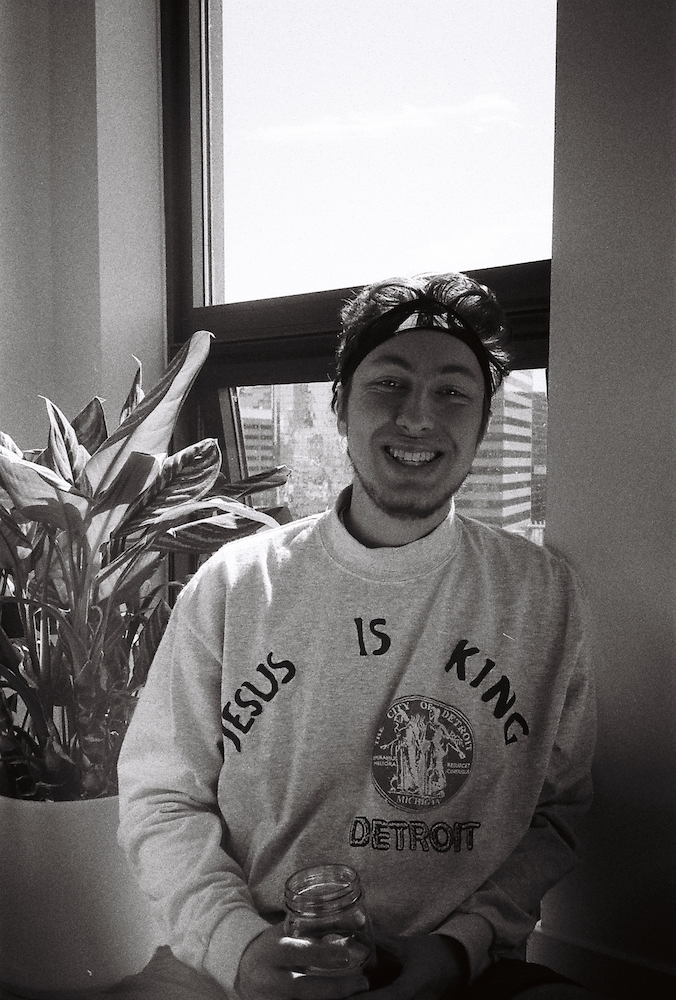
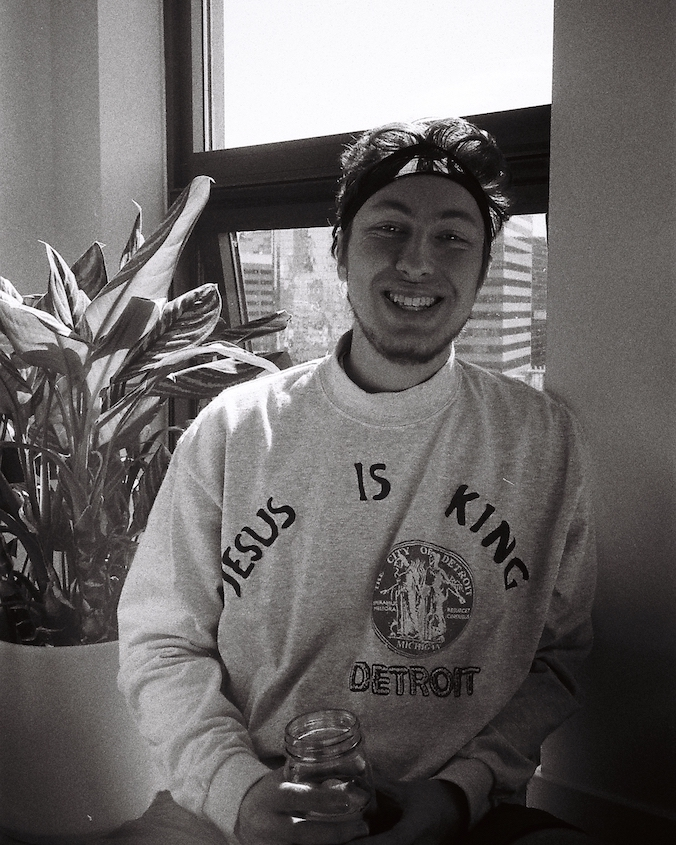
Base for 2022

diff --git a/src/routes/index.svelte b/src/routes/index.svelte
@@ -1,6 +1,27 @@
 <script lang="ts">
 	import Quotes from "../components/quotes.svelte";
-</script><style>
+
+	const portraits = [
+		{ src: 'portrait2021', alt: 'Levi Gunsallus (2021 - Self Portrait)' },
+		{ src: 'portrait2020', alt: 'Levi Gunsallus (2020 - Liam Hogan)' },
+		{ src: 'portrait2019', alt: 'Levi Gunsallus (2019 - Liam Hogan)' }
+	];
+
+	let currentPortrait = 0;
+
+	const decreaseCurrentPortrait = () => {
+		currentPortrait--
+	}
+
+	const increaseCurrentPortrait = () => {
+		currentPortrait++
+	}
+
+	$: allowLeftArrow = currentPortrait !== 0;
+	$: allowRightArrow = currentPortrait !== portraits.length - 1;
+</script>
+
+<style>
 	main {
 		display: flex;
 		min-width: 100vw;
@@ -10,18 +31,25 @@
 	}
 	#portrait-wrapper {
 		padding: 0px 5%;
-		flex-basis: 50%;
+		flex-basis: 60%;
+		/* height: 100vh; */
+		/* overflow: hidden; */
+		display: flex;
+		justify-content: center;
+		flex-direction: column;
 	}
 	#content {
-		width: 50%;
+		width: 40%;
 		padding: 0px;
 		display: flex;
 		flex-direction: column;
-		justify-content: flex-end;
+		justify-content: space-between;
+	}
+	picture {
+		width: 100%;
 	}
 	img {
 		width: 100%;
-		height: 100%;
 		object-fit: cover;
 		object-position: center;
 	}
@@ -32,13 +60,49 @@
 	h3 {
 		margin-bottom: 4px;
 	}
+	.under-image {
+		display: flex;
+		margin-top: 8px;
+		justify-content: space-between;
+		align-items: center;
+	}
+	.arrow {
+		margin-left: 16px;
+		cursor: pointer;
+	}
+
+	.arrow > svg > path {
+		fill: slategray;
+	}
+
+	.arrow:hover > svg > path {
+		fill: black;
+	}
+
+	.arrow-disabled {
+		cursor: not-allowed;
+		color: lightgrey;
+	}
+
+	.arrow-disabled:hover {
+		color: lightgrey;
+	}
+
+	.arrow-disabled > svg > path {
+		fill: lightgrey;
+	}
+
+	.arrow-disabled:hover > svg > path {
+		fill: lightgrey;
+	}
+
 	@media only screen and (max-width: 1200px) {
 		#portrait-wrapper {
 			padding: 0px;
 			padding-right: 20px;
 		}
 	}
-	@media only screen and (max-width: 580px) {
+	@media only screen and (max-width: 800px) {
 		main {
 			flex-direction: column;
 			height: unset;
@@ -56,14 +120,36 @@
 
 <main>
 	<div id="portrait-wrapper">
-		<img src="portrait2021.jpg" alt="Levi Gunsallus (2021 - Self Portrait)" />
+		<picture>
+			<source srcset="{portraits[currentPortrait].src}.webp" type="image/webp">
+			<!-- <source srcset="{portraits[currentPortrait].src}.jpg"> -->
+			<img loading="lazy" src="{portraits[currentPortrait].src}.jpg" alt="{portraits[currentPortrait].alt}">
+		</picture>
+		<!-- This one should be much smaller -->
+		<div class="under-image">
+			<p>{portraits[currentPortrait].alt}</p>
+
+			<div style="display: flex;">
+				<!-- Left arrow -->
+				<div on:click={allowLeftArrow ? decreaseCurrentPortrait : undefined} class="{allowLeftArrow ? 'arrow' : 'arrow arrow-disabled'}">
+					<svg width="24" height="24" style="color: inherit" xmlns="http://www.w3.org/2000/svg" fill-rule="evenodd" clip-rule="evenodd"><path d="M2.117 12l7.527 6.235-.644.765-9-7.521 9-7.479.645.764-7.529 6.236h21.884v1h-21.883z"/></svg>
+				</div>
+				<!-- Right arrow -->
+				<div on:click={allowRightArrow ? increaseCurrentPortrait : undefined} class="{allowRightArrow ? 'arrow' : 'arrow arrow-disabled'}">
+					<svg width="24" height="24" xmlns="http://www.w3.org/2000/svg" fill-rule="evenodd" clip-rule="evenodd"><path d="M21.883 12l-7.527 6.235.644.765 9-7.521-9-7.479-.645.764 7.529 6.236h-21.884v1h21.883z"/></svg>
+				</div>
+			</div>
+		</div>
 	</div>
 	
 	<div id="content">
-		<h1>Levi Gunsallus</h1>
-		<h3>Healthcare at <a href="https://questanalytics.com" target="_blank">Quest Analytics</a>.</h3>
-		<h3>Housing at <a href="https://ovalhands.com" target="_blank">Ovalhands</a>.</h3>
-		<h3>Waste at <a href="https://scarlok.com" target="_blank">Scarlok</a>.</h3>
+		<div>
+			<h1>Levi Gunsallus</h1>
+			<h3>Healthcare at <a href="https://questanalytics.com" target="_blank">Quest Analytics</a>.</h3>
+			<h3>Housing at <a href="https://ovalhands.com" target="_blank">Ovalhands</a>.</h3>
+			<h3>Waste at <a href="https://scarlok.com" target="_blank">Scarlok</a>.</h3>
+		</div>
+		
 		<Quotes />
 	</div>
 </main>

diff --git a/src/components/quotes.svelte b/src/components/quotes.svelte
@@ -1,17 +1,22 @@
 <script lang="ts">
     import { onMount } from 'svelte';
+    import { fade } from 'svelte/transition';
     import type { QuoteType } from '../types/quote.type';
 
     let quote: QuoteType | null = null;
     let quoteIndex: number = 0;
     let numberTotalQuotes: number = 0;
 
-    onMount(async () => {
+    const getNewQuote = async () => {
         const response = await (await fetch('/api/quote')).json();
 
         quote = response.quote;
         quoteIndex = response.quoteIndex;
         numberTotalQuotes = response.numberTotalQuotes;
+    }
+
+    onMount(async () => {
+        await getNewQuote();
     });
 </script>
 
@@ -23,17 +28,45 @@
         flex-direction: column;
         margin-top: 120px;
     }
+    #quote-text {
+        margin-top: 12px;
+        display: flex;
+        justify-content: space-between;
+    }
     #quote-info {
         margin-top: 12px;
         display: flex;
         justify-content: space-between;
     }
+    .refresh {
+        margin-left: 12px;
+    }
+    .refresh > svg > path {
+        fill: slategrey;
+    }
+    .refresh:hover > svg > path {
+        cursor: pointer;
+        fill: black;
+    }
 </style>
 
-<div id="quote-wrapper">
-    <h2>"{quote?.text ?? 'Loading quote'}"</h2>
-    <div id="quote-info">
-        <h4>({quote?.citation ?? 'Loading citation'})</h4>
-        <h4>{quoteIndex}/{numberTotalQuotes}</h4>
+{#if quote}
+    <div id="quote-wrapper" transition:fade>
+        <div id="quote-text">
+            <h3>"{quote.text}"</h3>
+            <div class="refresh">
+                <svg 
+                on:click={getNewQuote}
+                xmlns="http://www.w3.org/2000/svg" x="0px" y="0px"
+                width="22" height="22"
+                viewBox="0 0 30 30"
+                style=" fill:#000000;"><path d="M 15 3 C 12.031398 3 9.3028202 4.0834384 7.2070312 5.875 A 1.0001 1.0001 0 1 0 8.5058594 7.3945312 C 10.25407 5.9000929 12.516602 5 15 5 C 20.19656 5 24.450989 8.9379267 24.951172 14 L 22 14 L 26 20 L 30 14 L 26.949219 14 C 26.437925 7.8516588 21.277839 3 15 3 z M 4 10 L 0 16 L 3.0507812 16 C 3.562075 22.148341 8.7221607 27 15 27 C 17.968602 27 20.69718 25.916562 22.792969 24.125 A 1.0001 1.0001 0 1 0 21.494141 22.605469 C 19.74593 24.099907 17.483398 25 15 25 C 9.80344 25 5.5490109 21.062074 5.0488281 16 L 8 16 L 4 10 z"></path>
+                </svg>
+            </div>
+        </div>
+        <div id="quote-info">
+            <h4>({quote.citation})</h4>
+            <h4>{quoteIndex}/{numberTotalQuotes}</h4>
+        </div>
     </div>
-</div>
+{/if}

diff --git a/src/app.html b/src/app.html
@@ -2,10 +2,29 @@
 <html lang="en">
 	<head>
 		<meta charset="utf-8" />
-		<meta name="description" content="" />
 		<link rel="icon" href="/favicon.png" />
 		<meta name="viewport" content="width=device-width, initial-scale=1" />
+		
+
+		<!-- Primary Meta Tags -->
 		<title>Levi Gunsallus</title>
+		<meta name="title" content="Levi Gunsallus">
+		<meta name="description" content="Quest Analytics. Ovalhands. Scarlok.">
+	
+		<!-- Open Graph / Facebook -->
+		<meta property="og:type" content="website">
+		<meta property="og:url" content="https://levigunsallus.com">
+		<meta property="og:title" content="Levi Gunsallus">
+		<meta property="og:description" content="Quest Analytics. Ovalhands. Scarlok.">
+		<meta property="og:image" content="/preview.jpg">
+	
+		<!-- Twitter -->
+		<meta property="twitter:card" content="summary_large_image">
+		<meta property="twitter:url" content="https://levigunsallus.com">
+		<meta property="twitter:title" content="Levi Gunsallus">
+		<meta property="twitter:description" content="Quest Analytics. Ovalhands. Scarlok.">
+		<meta property="twitter:image"  content="/preview.jpg">
+
 		%svelte.head%
 		<!-- <style>
 			/* CSS reset */

diff --git a/functions/quote.ts b/functions/quote.ts
@@ -3,6 +3,10 @@ import type { QuoteType } from '../src/types/quote.type';
 
 const quotes: Array<QuoteType> = [
     {
+        text: "The comfort of having an organization is largely illusionary. It still comes down to one programmer in the end.",
+        citation: "The Making of Prince of Persia - Jordan Mechner"
+    },
+    {
         text: "Details, when they are successful, are not mere decoration. They do not distract or entertain. They lead to an understanding of the whole of which they are an inherent part.",
         citation: "Thinking Architecture - Peter Zumthor"
     },
